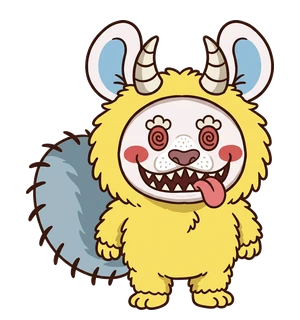
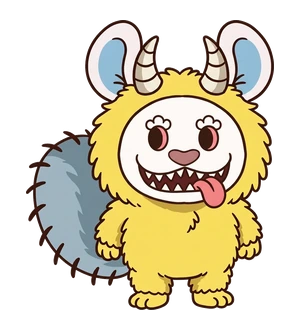
feat: 훌라 스킨 명칭 '인어섬의 비밀 스킨' 변경 및 공식 일러스트 기반 대기 이미지 적용 & 데카츠요 정확 가면 에셋 갱신

diff --git a/src/main.ts b/src/main.ts
@@ -62,11 +62,11 @@ function setSkinToggleState(type: TestSkinType, message?: string) {
   currentTestSkin = type;
   const isEnabled = type !== 'none';
   hulaToggle.setAttribute('aria-pressed', String(isEnabled));
-  const skinLabel = type === 'anoko' ? '아노코 인형옷' : type === 'dekatsuyo' ? '데카츠요 인형옷' : type === 'usagi' ? '우사기 인형옷' : type === 'hula' ? '훌라' : '기본';
+  const skinLabel = type === 'anoko' ? '아노코 인형옷' : type === 'dekatsuyo' ? '데카츠요 인형옷' : type === 'usagi' ? '우사기 인형옷' : type === 'hula' ? '인어섬의 비밀' : '기본';
   hulaToggle.setAttribute('aria-label', `테스트 스킨: ${skinLabel}. 더블클릭으로 전환`);
   hulaToggle.textContent = type === 'anoko' ? '🐊' : type === 'dekatsuyo' ? '😈' : type === 'usagi' ? '🐰' : type === 'hula' ? '🌺' : '↓';
   hulaStatus.hidden = false;
-  hulaStatus.textContent = message ?? (type === 'anoko' ? '아노코 인형옷 테스트 스킨 장착!' : type === 'dekatsuyo' ? '데카츠요 인형옷 테스트 스킨 장착!' : type === 'usagi' ? '우사기 인형옷 테스트 스킨 장착!' : type === 'hula' ? '훌라 달리기 테스트: 켜짐' : '기본 달리기로 돌아왔어요');
+  hulaStatus.textContent = message ?? (type === 'anoko' ? '아노코 인형옷 테스트 스킨 장착!' : type === 'dekatsuyo' ? '데카츠요 인형옷 테스트 스킨 장착!' : type === 'usagi' ? '우사기 인형옷 테스트 스킨 장착!' : type === 'hula' ? '인어섬의 비밀 스킨 테스트 장착!' : '기본 달리기로 돌아왔어요');
 }
 hulaToggle.addEventListener('dblclick', e => {
   e.preventDefault(); e.stopPropagation();
@@ -1261,7 +1261,7 @@ interface SkinAssetConfig {
 
 const SKIN_CONFIGS: Record<string, SkinAssetConfig> = {
   'momonga-hula': {
-    name: '하와이안 훌라 스킨',
+    name: '인어섬의 비밀 스킨',
     runSrc: '/assets/momonga-hula-run.webp',
     baseSrc: '/assets/momonga-hula-base.webp',
     crouchSrc: '/assets/momonga-hula-crouch.webp',

diff --git a/src/shop.ts b/src/shop.ts
@@ -13,8 +13,8 @@ export interface ShopItem {
 export const SHOP_ITEMS: ShopItem[] = [
   {
     id: 'momonga-hula',
-    name: '하와이안 훌라 스킨',
-    desc: '보라색 꽃 화관과 시원한 풀치마를 두른 모몽가 스킨 세트 (달리기/점프/기어가기/활공)',
+    name: '인어섬의 비밀 스킨',
+    desc: '극장판 인어섬의 비밀 속 보라색 꽃 화관과 시원한 풀치마를 두른 모몽가 코스튬 (달리기/점프/기어가기/활공)',
     price: 50,
     icon: '/assets/momonga-hula-idle.webp',
     preview: '/assets/momonga-hula-run.webp',
